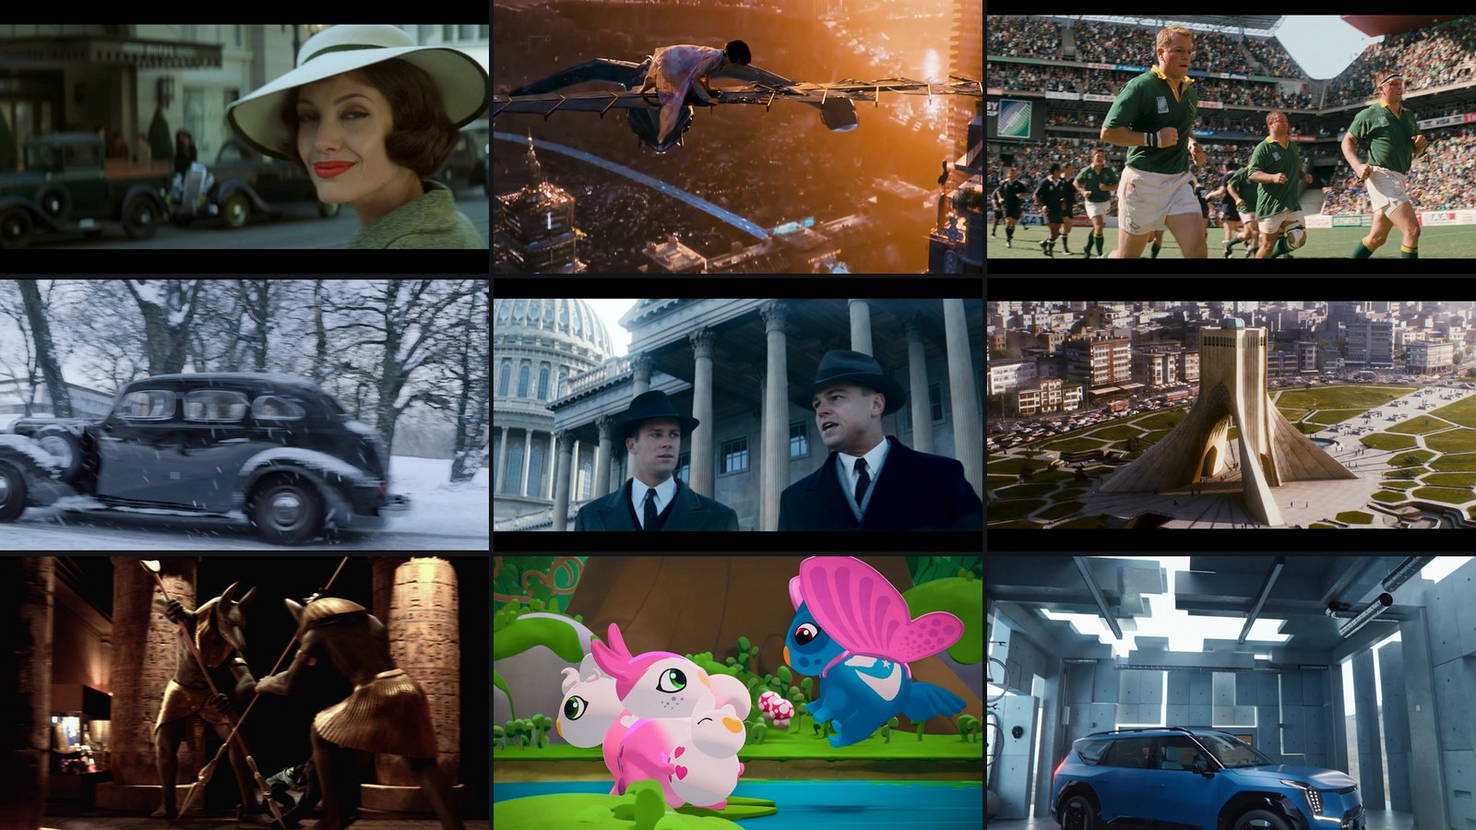
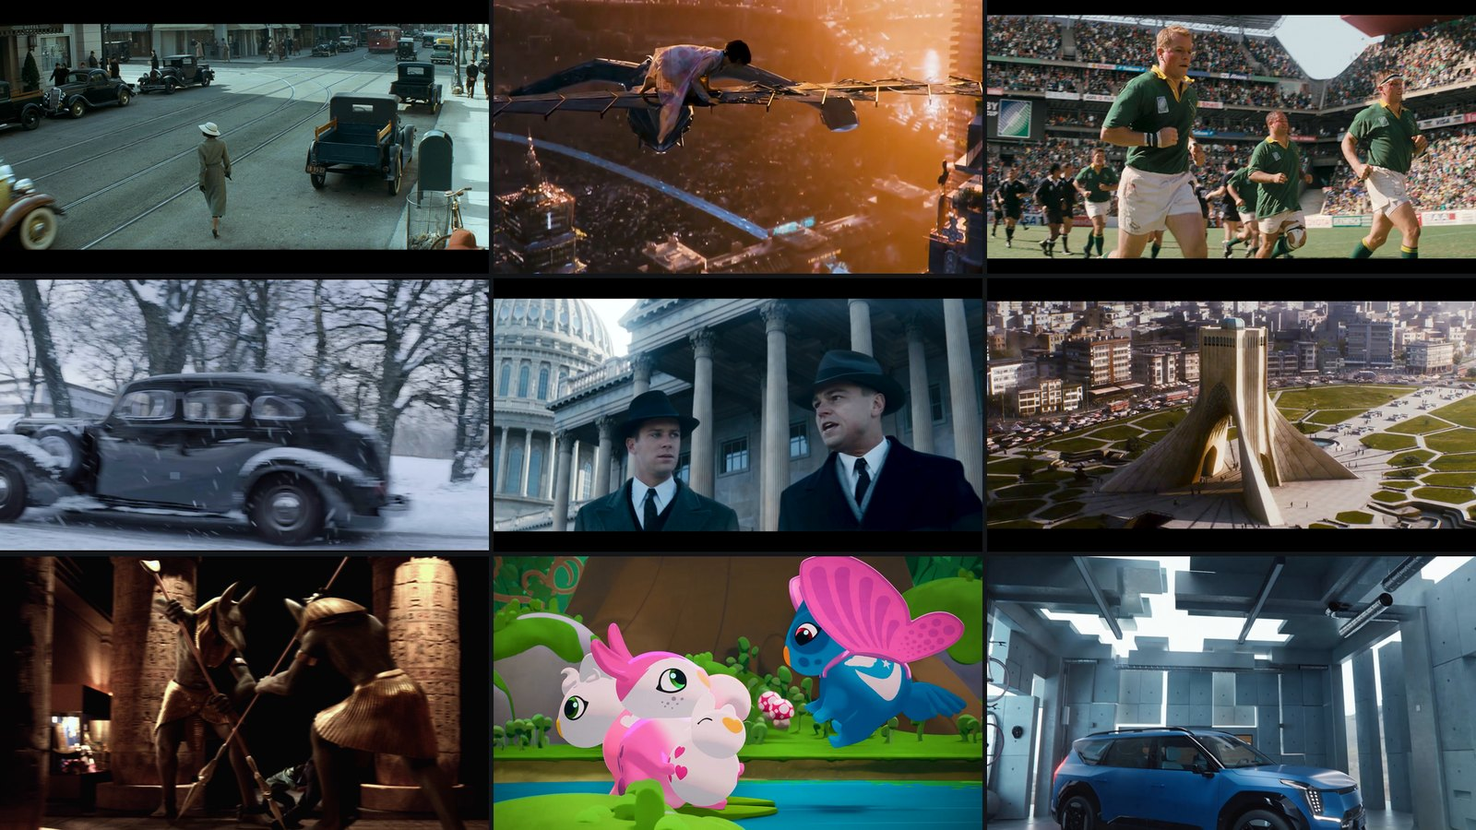
Reel: no visible headline, let the grid lead
Geoff's call: drop the headline, let the work argue, and let the contact block
be the actual call to action. The h1 is hidden rather than deleted, because a
page with no h1 leaves assistive tech with no heading and search with nothing
to title it against. It now reads as a plain page name.

That required actually defining .sr in this stylesheet. I had used the class
from the sibling site, where it exists; here it did not, so the "hidden"
heading was still rendering at 138px and pushing the grid down the page. Caught
by measuring the element rather than looking at the markup and assuming.

Top-left tile swapped from the Changeling close-up to the wide street that
follows it, which is the better showcase anyway: the whole street is the work.

Claude-Session: https://claude.ai/code/session_01WgaGcWQ2W5m5PryDwbbE2Q

Changed region(s): [[0.0, 0.0311, 0.3438, 0.3111]]

diff --git a/docs/reel/index.html b/docs/reel/index.html
@@ -19,7 +19,7 @@
 <meta name="twitter:title" content="Reel 2026 | Geoffrey Hancock, VFX Supervisor and Producer">
 <meta name="twitter:description" content="Demo reel of Geoffrey Hancock, VFX supervisor and producer. Complex sequences delivered on time and on budget. Changeling, J. Edgar, Invictus, Argo, Cloud Atlas, Atlantic Crossing.">
 <meta name="twitter:image" content="https://thevfxsupervisor.com/static/og-image.png">
-<link rel="stylesheet" href="/static/style.css?v=81425101">
+<link rel="stylesheet" href="/static/style.css?v=b8d35a58">
   <link rel="alternate" type="application/rss+xml" title="the vfx supervisor" href="https://thevfxsupervisor.com/feed.xml">
 <script type="application/ld+json">{"@context":"https://schema.org","@type":"WebSite","name":"the vfx supervisor","url":"https://thevfxsupervisor.com/"}</script>
 <script type="application/ld+json">{"@context": "https://schema.org", "@type": "Person", "@id": "https://thevfxsupervisor.com/#person", "name": "Geoffrey Hancock", "jobTitle": "VFX Supervisor and Producer", "url": "https://thevfxsupervisor.com/", "sameAs": ["https://www.imdb.com/name/nm0995883/", "https://github.com/thevfxsupervisor", "https://wangle.media/", "https://www.wangle.studio"], "award": ["VES Award, Outstanding Supporting Visual Effects in a Feature Motion Picture, Changeling (7th Annual VES Awards)", "VES nomination, Invictus (8th Annual VES Awards)", "Robert nomination, Skammerens datter II"], "worksFor": {"@type": "Organization", "name": "Wangle Media", "url": "https://wangle.media/"}, "homeLocation": {"@type": "Place", "address": {"@type": "PostalAddress", "addressLocality": "Humlebaek", "addressCountry": "DK"}}, "knowsAbout": ["Visual effects", "VFX supervision", "VFX production", "VFX bidding and budgeting", "Shot breakdown", "Pipeline engineering", "Real-time and Unreal Engine production", "AI in visual effects", "Multi-vendor VFX delivery"], "knowsLanguage": ["en", "da"]}</script>
@@ -47,7 +47,11 @@
 <section class="reel-top">
   <div class="wrap">
     <span class="eyebrow">Reel 2026, 74 seconds</span>
-    <h1>Complex sequences, delivered without the overruns.</h1>
+    <!-- The h1 is present but not shown. Geoff's call: no headline, let the work
+         argue and let the contact block be the call to action. Deleting the h1
+         outright would leave the page with no heading for a screen reader and
+         nothing for search to title it against, so it is hidden, not removed. -->
+    <h1 class="sr">Reel 2026, Geoffrey Hancock, VFX supervisor and producer</h1>
   </div>
 </section>
 <section class="reel-stage">

diff --git a/docs/course/index.html b/docs/course/index.html
@@ -19,7 +19,7 @@
 <meta name="twitter:title" content="Breakdown and Budget the VFX of a Whole Film. Solo. | the vfx supervisor">
 <meta name="twitter:description" content="A live workshop for film producers and VFX supervisors going independent, on how to break down, budget and bid a whole film's VFX in the AI era: what to automate, what to trust, and the legal lines (chain of title) not to cross. Runs about once a month. Join the free waitlist for the next date and get the "Shoots You in the Foot" VFX and AI gotchas list. Taught by Geoffrey Hancock, VES Award winner, 20+ years supervising VFX on Changeling, Argo, Cloud Atlas and Atlantic Crossing.">
 <meta name="twitter:image" content="https://thevfxsupervisor.com/static/og-image.png">
-<link rel="stylesheet" href="/static/style.css?v=81425101">
+<link rel="stylesheet" href="/static/style.css?v=b8d35a58">
   <link rel="alternate" type="application/rss+xml" title="the vfx supervisor" href="https://thevfxsupervisor.com/feed.xml">
 <script type="application/ld+json">{"@context":"https://schema.org","@type":"WebSite","name":"the vfx supervisor","url":"https://thevfxsupervisor.com/"}</script>
 <script type="application/ld+json">{"@context": "https://schema.org", "@type": "Person", "@id": "https://thevfxsupervisor.com/#person", "name": "Geoffrey Hancock", "jobTitle": "VFX Supervisor and Producer", "url": "https://thevfxsupervisor.com/", "sameAs": ["https://www.imdb.com/name/nm0995883/", "https://github.com/thevfxsupervisor", "https://wangle.media/", "https://www.wangle.studio"], "award": ["VES Award, Outstanding Supporting Visual Effects in a Feature Motion Picture, Changeling (7th Annual VES Awards)", "VES nomination, Invictus (8th Annual VES Awards)", "Robert nomination, Skammerens datter II"], "worksFor": {"@type": "Organization", "name": "Wangle Media", "url": "https://wangle.media/"}, "homeLocation": {"@type": "Place", "address": {"@type": "PostalAddress", "addressLocality": "Humlebaek", "addressCountry": "DK"}}, "knowsAbout": ["Visual effects", "VFX supervision", "VFX production", "VFX bidding and budgeting", "Shot breakdown", "Pipeline engineering", "Real-time and Unreal Engine production", "AI in visual effects", "Multi-vendor VFX delivery"], "knowsLanguage": ["en", "da"]}</script>

diff --git a/docs/notes/keeping-a-long-running-ai-agent-in-sync/index.html b/docs/notes/keeping-a-long-running-ai-agent-in-sync/index.html
@@ -19,7 +19,7 @@
 <meta name="twitter:title" content="Keeping a long-running AI agent in sync with its own rules">
 <meta name="twitter:description" content="An AI agent that runs for days is working from the rulebook it read on the first morning. When that rulebook keeps improving, how do you update the agent without restarting it or drowning it? Notify always, load on demand, and never call a change handled until it has actually been read.">
 <meta name="twitter:image" content="https://thevfxsupervisor.com/static/og-image.png">
-<link rel="stylesheet" href="/static/style.css?v=81425101">
+<link rel="stylesheet" href="/static/style.css?v=b8d35a58">
   <link rel="alternate" type="application/rss+xml" title="the vfx supervisor" href="https://thevfxsupervisor.com/feed.xml">
 <script type="application/ld+json">{"@context":"https://schema.org","@type":"WebSite","name":"the vfx supervisor","url":"https://thevfxsupervisor.com/"}</script>
 <script type="application/ld+json">{"@context": "https://schema.org", "@type": "Person", "@id": "https://thevfxsupervisor.com/#person", "name": "Geoffrey Hancock", "jobTitle": "VFX Supervisor and Producer", "url": "https://thevfxsupervisor.com/", "sameAs": ["https://www.imdb.com/name/nm0995883/", "https://github.com/thevfxsupervisor", "https://wangle.media/", "https://www.wangle.studio"], "award": ["VES Award, Outstanding Supporting Visual Effects in a Feature Motion Picture, Changeling (7th Annual VES Awards)", "VES nomination, Invictus (8th Annual VES Awards)", "Robert nomination, Skammerens datter II"], "worksFor": {"@type": "Organization", "name": "Wangle Media", "url": "https://wangle.media/"}, "homeLocation": {"@type": "Place", "address": {"@type": "PostalAddress", "addressLocality": "Humlebaek", "addressCountry": "DK"}}, "knowsAbout": ["Visual effects", "VFX supervision", "VFX production", "VFX bidding and budgeting", "Shot breakdown", "Pipeline engineering", "Real-time and Unreal Engine production", "AI in visual effects", "Multi-vendor VFX delivery"], "knowsLanguage": ["en", "da"]}</script>

diff --git a/docs/notes/running-ai-agents-as-a-coordinated-team/index.html b/docs/notes/running-ai-agents-as-a-coordinated-team/index.html
@@ -19,7 +19,7 @@
 <meta name="twitter:title" content="Running several AI agents as one coordinated team">
 <meta name="twitter:description" content="A shared folder and a few JSON files let a fleet of AI agents work the same production together: hand off work, stay out of each other's way, and keep going across machines and restarts. What that makes possible, and the discipline that keeps it dependable as the fleet grows.">
 <meta name="twitter:image" content="https://thevfxsupervisor.com/static/og-image.png">
-<link rel="stylesheet" href="/static/style.css?v=81425101">
+<link rel="stylesheet" href="/static/style.css?v=b8d35a58">
   <link rel="alternate" type="application/rss+xml" title="the vfx supervisor" href="https://thevfxsupervisor.com/feed.xml">
 <script type="application/ld+json">{"@context":"https://schema.org","@type":"WebSite","name":"the vfx supervisor","url":"https://thevfxsupervisor.com/"}</script>
 <script type="application/ld+json">{"@context": "https://schema.org", "@type": "Person", "@id": "https://thevfxsupervisor.com/#person", "name": "Geoffrey Hancock", "jobTitle": "VFX Supervisor and Producer", "url": "https://thevfxsupervisor.com/", "sameAs": ["https://www.imdb.com/name/nm0995883/", "https://github.com/thevfxsupervisor", "https://wangle.media/", "https://www.wangle.studio"], "award": ["VES Award, Outstanding Supporting Visual Effects in a Feature Motion Picture, Changeling (7th Annual VES Awards)", "VES nomination, Invictus (8th Annual VES Awards)", "Robert nomination, Skammerens datter II"], "worksFor": {"@type": "Organization", "name": "Wangle Media", "url": "https://wangle.media/"}, "homeLocation": {"@type": "Place", "address": {"@type": "PostalAddress", "addressLocality": "Humlebaek", "addressCountry": "DK"}}, "knowsAbout": ["Visual effects", "VFX supervision", "VFX production", "VFX bidding and budgeting", "Shot breakdown", "Pipeline engineering", "Real-time and Unreal Engine production", "AI in visual effects", "Multi-vendor VFX delivery"], "knowsLanguage": ["en", "da"]}</script>

diff --git a/docs/notes/the-cheapest-message-is-the-one-nobody-sends/index.html b/docs/notes/the-cheapest-message-is-the-one-nobody-sends/index.html
@@ -19,7 +19,7 @@
 <meta name="twitter:title" content="The cheapest message is the one nobody sends">
 <meta name="twitter:description" content="A fleet of AI agents coordinating on the same work gets noisy fast, and the noise is billed. Notes on signal to noise across a multi-agent channel, why the fix is a systems change rather than better instructions, and the two lessons that cost the most.">
 <meta name="twitter:image" content="https://thevfxsupervisor.com/static/og-image.png">
-<link rel="stylesheet" href="/static/style.css?v=81425101">
+<link rel="stylesheet" href="/static/style.css?v=b8d35a58">
   <link rel="alternate" type="application/rss+xml" title="the vfx supervisor" href="https://thevfxsupervisor.com/feed.xml">
 <script type="application/ld+json">{"@context":"https://schema.org","@type":"WebSite","name":"the vfx supervisor","url":"https://thevfxsupervisor.com/"}</script>
 <script type="application/ld+json">{"@context": "https://schema.org", "@type": "Person", "@id": "https://thevfxsupervisor.com/#person", "name": "Geoffrey Hancock", "jobTitle": "VFX Supervisor and Producer", "url": "https://thevfxsupervisor.com/", "sameAs": ["https://www.imdb.com/name/nm0995883/", "https://github.com/thevfxsupervisor", "https://wangle.media/", "https://www.wangle.studio"], "award": ["VES Award, Outstanding Supporting Visual Effects in a Feature Motion Picture, Changeling (7th Annual VES Awards)", "VES nomination, Invictus (8th Annual VES Awards)", "Robert nomination, Skammerens datter II"], "worksFor": {"@type": "Organization", "name": "Wangle Media", "url": "https://wangle.media/"}, "homeLocation": {"@type": "Place", "address": {"@type": "PostalAddress", "addressLocality": "Humlebaek", "addressCountry": "DK"}}, "knowsAbout": ["Visual effects", "VFX supervision", "VFX production", "VFX bidding and budgeting", "Shot breakdown", "Pipeline engineering", "Real-time and Unreal Engine production", "AI in visual effects", "Multi-vendor VFX delivery"], "knowsLanguage": ["en", "da"]}</script>

diff --git a/docs/projects/breakdown-studio/index.html b/docs/projects/breakdown-studio/index.html
@@ -19,7 +19,7 @@
 <meta name="twitter:title" content="Case study: Breakdown Studio, a shot-breakdown pipeline for solo VFX supervisors | the vfx supervisor">
 <meta name="twitter:description" content="How I built Breakdown Studio, a shot-breakdown pipeline that turns weeks of hand-logging a film cut into an afternoon, solo, on a feature in active production, then open-sourced it.">
 <meta name="twitter:image" content="https://thevfxsupervisor.com/static/og-image.png">
-<link rel="stylesheet" href="/static/style.css?v=81425101">
+<link rel="stylesheet" href="/static/style.css?v=b8d35a58">
   <link rel="alternate" type="application/rss+xml" title="the vfx supervisor" href="https://thevfxsupervisor.com/feed.xml">
 <script type="application/ld+json">{"@context":"https://schema.org","@type":"WebSite","name":"the vfx supervisor","url":"https://thevfxsupervisor.com/"}</script>
 <script type="application/ld+json">{"@context": "https://schema.org", "@type": "Person", "@id": "https://thevfxsupervisor.com/#person", "name": "Geoffrey Hancock", "jobTitle": "VFX Supervisor and Producer", "url": "https://thevfxsupervisor.com/", "sameAs": ["https://www.imdb.com/name/nm0995883/", "https://github.com/thevfxsupervisor", "https://wangle.media/", "https://www.wangle.studio"], "award": ["VES Award, Outstanding Supporting Visual Effects in a Feature Motion Picture, Changeling (7th Annual VES Awards)", "VES nomination, Invictus (8th Annual VES Awards)", "Robert nomination, Skammerens datter II"], "worksFor": {"@type": "Organization", "name": "Wangle Media", "url": "https://wangle.media/"}, "homeLocation": {"@type": "Place", "address": {"@type": "PostalAddress", "addressLocality": "Humlebaek", "addressCountry": "DK"}}, "knowsAbout": ["Visual effects", "VFX supervision", "VFX production", "VFX bidding and budgeting", "Shot breakdown", "Pipeline engineering", "Real-time and Unreal Engine production", "AI in visual effects", "Multi-vendor VFX delivery"], "knowsLanguage": ["en", "da"]}</script>

diff --git a/docs/about/index.html b/docs/about/index.html
@@ -19,7 +19,7 @@
 <meta name="twitter:title" content="About | Geoffrey Hancock, the vfx supervisor">
 <meta name="twitter:description" content="Geoffrey Hancock, VFX supervisor and producer. VES Award for Changeling. Argo, Cloud Atlas, J. Edgar, Invictus, Atlantic Crossing. Netflix, Pandora, LEGO, Kia. Copenhagen, available for freelance supervision.">
 <meta name="twitter:image" content="https://thevfxsupervisor.com/static/og-image.png">
-<link rel="stylesheet" href="/static/style.css?v=81425101">
+<link rel="stylesheet" href="/static/style.css?v=b8d35a58">
   <link rel="alternate" type="application/rss+xml" title="the vfx supervisor" href="https://thevfxsupervisor.com/feed.xml">
 <script type="application/ld+json">{"@context":"https://schema.org","@type":"WebSite","name":"the vfx supervisor","url":"https://thevfxsupervisor.com/"}</script>
 <script type="application/ld+json">{"@context": "https://schema.org", "@type": "Person", "@id": "https://thevfxsupervisor.com/#person", "name": "Geoffrey Hancock", "jobTitle": "VFX Supervisor and Producer", "url": "https://thevfxsupervisor.com/", "sameAs": ["https://www.imdb.com/name/nm0995883/", "https://github.com/thevfxsupervisor", "https://wangle.media/", "https://www.wangle.studio"], "award": ["VES Award, Outstanding Supporting Visual Effects in a Feature Motion Picture, Changeling (7th Annual VES Awards)", "VES nomination, Invictus (8th Annual VES Awards)", "Robert nomination, Skammerens datter II"], "worksFor": {"@type": "Organization", "name": "Wangle Media", "url": "https://wangle.media/"}, "homeLocation": {"@type": "Place", "address": {"@type": "PostalAddress", "addressLocality": "Humlebaek", "addressCountry": "DK"}}, "knowsAbout": ["Visual effects", "VFX supervision", "VFX production", "VFX bidding and budgeting", "Shot breakdown", "Pipeline engineering", "Real-time and Unreal Engine production", "AI in visual effects", "Multi-vendor VFX delivery"], "knowsLanguage": ["en", "da"]}</script>

diff --git a/docs/notes/the-bad-monitor/index.html b/docs/notes/the-bad-monitor/index.html
@@ -19,7 +19,7 @@
 <meta name="twitter:title" content="The bad monitor">
 <meta name="twitter:description" content="A supervisor I worked with on a run of Eastwood films learned a trick at ILM: check the finished shot on the worst screen in the building. Why your good viewing conditions are hiding things from you, and why comparison beats memory.">
 <meta name="twitter:image" content="https://thevfxsupervisor.com/static/og-image.png">
-<link rel="stylesheet" href="/static/style.css?v=81425101">
+<link rel="stylesheet" href="/static/style.css?v=b8d35a58">
   <link rel="alternate" type="application/rss+xml" title="the vfx supervisor" href="https://thevfxsupervisor.com/feed.xml">
 <script type="application/ld+json">{"@context":"https://schema.org","@type":"WebSite","name":"the vfx supervisor","url":"https://thevfxsupervisor.com/"}</script>
 <script type="application/ld+json">{"@context": "https://schema.org", "@type": "Person", "@id": "https://thevfxsupervisor.com/#person", "name": "Geoffrey Hancock", "jobTitle": "VFX Supervisor and Producer", "url": "https://thevfxsupervisor.com/", "sameAs": ["https://www.imdb.com/name/nm0995883/", "https://github.com/thevfxsupervisor", "https://wangle.media/", "https://www.wangle.studio"], "award": ["VES Award, Outstanding Supporting Visual Effects in a Feature Motion Picture, Changeling (7th Annual VES Awards)", "VES nomination, Invictus (8th Annual VES Awards)", "Robert nomination, Skammerens datter II"], "worksFor": {"@type": "Organization", "name": "Wangle Media", "url": "https://wangle.media/"}, "homeLocation": {"@type": "Place", "address": {"@type": "PostalAddress", "addressLocality": "Humlebaek", "addressCountry": "DK"}}, "knowsAbout": ["Visual effects", "VFX supervision", "VFX production", "VFX bidding and budgeting", "Shot breakdown", "Pipeline engineering", "Real-time and Unreal Engine production", "AI in visual effects", "Multi-vendor VFX delivery"], "knowsLanguage": ["en", "da"]}</script>

diff --git a/docs/projects/link-session/index.html b/docs/projects/link-session/index.html
@@ -19,7 +19,7 @@
 <meta name="twitter:title" content="Case study: link-session, coordinating a fleet of AI agents across projects | the vfx supervisor">
 <meta name="twitter:description" content="How I coordinate several live AI agents across concurrent projects over shared files, with no server. A small open-source Claude Code skill.">
 <meta name="twitter:image" content="https://thevfxsupervisor.com/static/og-image.png">
-<link rel="stylesheet" href="/static/style.css?v=81425101">
+<link rel="stylesheet" href="/static/style.css?v=b8d35a58">
   <link rel="alternate" type="application/rss+xml" title="the vfx supervisor" href="https://thevfxsupervisor.com/feed.xml">
 <script type="application/ld+json">{"@context":"https://schema.org","@type":"WebSite","name":"the vfx supervisor","url":"https://thevfxsupervisor.com/"}</script>
 <script type="application/ld+json">{"@context": "https://schema.org", "@type": "Person", "@id": "https://thevfxsupervisor.com/#person", "name": "Geoffrey Hancock", "jobTitle": "VFX Supervisor and Producer", "url": "https://thevfxsupervisor.com/", "sameAs": ["https://www.imdb.com/name/nm0995883/", "https://github.com/thevfxsupervisor", "https://wangle.media/", "https://www.wangle.studio"], "award": ["VES Award, Outstanding Supporting Visual Effects in a Feature Motion Picture, Changeling (7th Annual VES Awards)", "VES nomination, Invictus (8th Annual VES Awards)", "Robert nomination, Skammerens datter II"], "worksFor": {"@type": "Organization", "name": "Wangle Media", "url": "https://wangle.media/"}, "homeLocation": {"@type": "Place", "address": {"@type": "PostalAddress", "addressLocality": "Humlebaek", "addressCountry": "DK"}}, "knowsAbout": ["Visual effects", "VFX supervision", "VFX production", "VFX bidding and budgeting", "Shot breakdown", "Pipeline engineering", "Real-time and Unreal Engine production", "AI in visual effects", "Multi-vendor VFX delivery"], "knowsLanguage": ["en", "da"]}</script>

diff --git a/docs/index.html b/docs/index.html
@@ -19,7 +19,7 @@
 <meta name="twitter:title" content="the vfx supervisor | Geoffrey Hancock, VFX Supervisor and Producer">
 <meta name="twitter:description" content="Geoffrey Hancock, VFX supervisor and producer. VES Award for Changeling. Argo, Cloud Atlas, J. Edgar, Invictus. 20+ years, Copenhagen. Maker of Breakdown Studio.">
 <meta name="twitter:image" content="https://thevfxsupervisor.com/static/og-image.png">
-<link rel="stylesheet" href="/static/style.css?v=81425101">
+<link rel="stylesheet" href="/static/style.css?v=b8d35a58">
   <link rel="alternate" type="application/rss+xml" title="the vfx supervisor" href="https://thevfxsupervisor.com/feed.xml">
 <script type="application/ld+json">{"@context":"https://schema.org","@type":"WebSite","name":"the vfx supervisor","url":"https://thevfxsupervisor.com/"}</script>
 <script type="application/ld+json">{"@context": "https://schema.org", "@type": "Person", "@id": "https://thevfxsupervisor.com/#person", "name": "Geoffrey Hancock", "jobTitle": "VFX Supervisor and Producer", "url": "https://thevfxsupervisor.com/", "sameAs": ["https://www.imdb.com/name/nm0995883/", "https://github.com/thevfxsupervisor", "https://wangle.media/", "https://www.wangle.studio"], "award": ["VES Award, Outstanding Supporting Visual Effects in a Feature Motion Picture, Changeling (7th Annual VES Awards)", "VES nomination, Invictus (8th Annual VES Awards)", "Robert nomination, Skammerens datter II"], "worksFor": {"@type": "Organization", "name": "Wangle Media", "url": "https://wangle.media/"}, "homeLocation": {"@type": "Place", "address": {"@type": "PostalAddress", "addressLocality": "Humlebaek", "addressCountry": "DK"}}, "knowsAbout": ["Visual effects", "VFX supervision", "VFX production", "VFX bidding and budgeting", "Shot breakdown", "Pipeline engineering", "Real-time and Unreal Engine production", "AI in visual effects", "Multi-vendor VFX delivery"], "knowsLanguage": ["en", "da"]}</script>

diff --git a/docs/notes/the-eleven-things-i-check/index.html b/docs/notes/the-eleven-things-i-check/index.html
@@ -19,7 +19,7 @@
 <meta name="twitter:title" content="The eleven things I check">
 <meta name="twitter:description" content="A post producer asked how you know a VFX shot looks real. Real is the wrong test. The short list of tells a supervisor actually runs down, from black point to lens characteristics.">
 <meta name="twitter:image" content="https://thevfxsupervisor.com/static/og-image.png">
-<link rel="stylesheet" href="/static/style.css?v=81425101">
+<link rel="stylesheet" href="/static/style.css?v=b8d35a58">
   <link rel="alternate" type="application/rss+xml" title="the vfx supervisor" href="https://thevfxsupervisor.com/feed.xml">
 <script type="application/ld+json">{"@context":"https://schema.org","@type":"WebSite","name":"the vfx supervisor","url":"https://thevfxsupervisor.com/"}</script>
 <script type="application/ld+json">{"@context": "https://schema.org", "@type": "Person", "@id": "https://thevfxsupervisor.com/#person", "name": "Geoffrey Hancock", "jobTitle": "VFX Supervisor and Producer", "url": "https://thevfxsupervisor.com/", "sameAs": ["https://www.imdb.com/name/nm0995883/", "https://github.com/thevfxsupervisor", "https://wangle.media/", "https://www.wangle.studio"], "award": ["VES Award, Outstanding Supporting Visual Effects in a Feature Motion Picture, Changeling (7th Annual VES Awards)", "VES nomination, Invictus (8th Annual VES Awards)", "Robert nomination, Skammerens datter II"], "worksFor": {"@type": "Organization", "name": "Wangle Media", "url": "https://wangle.media/"}, "homeLocation": {"@type": "Place", "address": {"@type": "PostalAddress", "addressLocality": "Humlebaek", "addressCountry": "DK"}}, "knowsAbout": ["Visual effects", "VFX supervision", "VFX production", "VFX bidding and budgeting", "Shot breakdown", "Pipeline engineering", "Real-time and Unreal Engine production", "AI in visual effects", "Multi-vendor VFX delivery"], "knowsLanguage": ["en", "da"]}</script>

diff --git a/docs/notes/how-a-one-person-vfx-department-orchestrates-ai/index.html b/docs/notes/how-a-one-person-vfx-department-orchestrates-ai/index.html
@@ -19,7 +19,7 @@
 <meta name="twitter:title" content="How a one-person VFX department orchestrates AI">
 <meta name="twitter:description" content="The mechanical half automates. The judgment half stays with the supervisor. Notes on briefing an AI assistant with guardrails on a live production.">
 <meta name="twitter:image" content="https://thevfxsupervisor.com/static/og-image.png">
-<link rel="stylesheet" href="/static/style.css?v=81425101">
+<link rel="stylesheet" href="/static/style.css?v=b8d35a58">
   <link rel="alternate" type="application/rss+xml" title="the vfx supervisor" href="https://thevfxsupervisor.com/feed.xml">
 <script type="application/ld+json">{"@context":"https://schema.org","@type":"WebSite","name":"the vfx supervisor","url":"https://thevfxsupervisor.com/"}</script>
 <script type="application/ld+json">{"@context": "https://schema.org", "@type": "Person", "@id": "https://thevfxsupervisor.com/#person", "name": "Geoffrey Hancock", "jobTitle": "VFX Supervisor and Producer", "url": "https://thevfxsupervisor.com/", "sameAs": ["https://www.imdb.com/name/nm0995883/", "https://github.com/thevfxsupervisor", "https://wangle.media/", "https://www.wangle.studio"], "award": ["VES Award, Outstanding Supporting Visual Effects in a Feature Motion Picture, Changeling (7th Annual VES Awards)", "VES nomination, Invictus (8th Annual VES Awards)", "Robert nomination, Skammerens datter II"], "worksFor": {"@type": "Organization", "name": "Wangle Media", "url": "https://wangle.media/"}, "homeLocation": {"@type": "Place", "address": {"@type": "PostalAddress", "addressLocality": "Humlebaek", "addressCountry": "DK"}}, "knowsAbout": ["Visual effects", "VFX supervision", "VFX production", "VFX bidding and budgeting", "Shot breakdown", "Pipeline engineering", "Real-time and Unreal Engine production", "AI in visual effects", "Multi-vendor VFX delivery"], "knowsLanguage": ["en", "da"]}</script>
